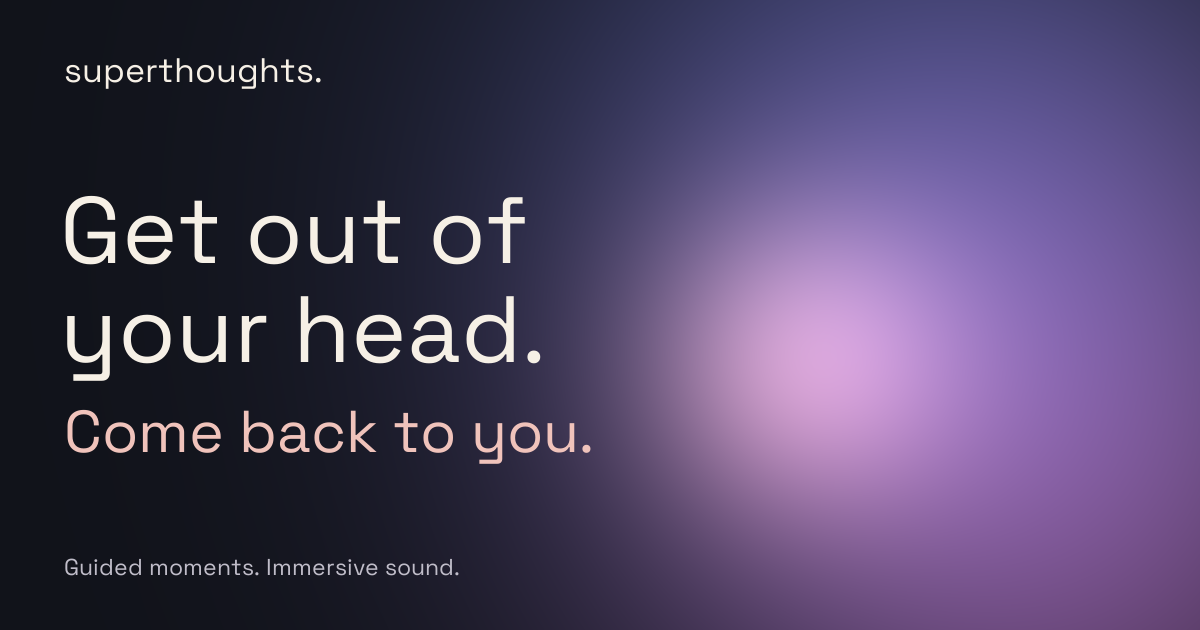
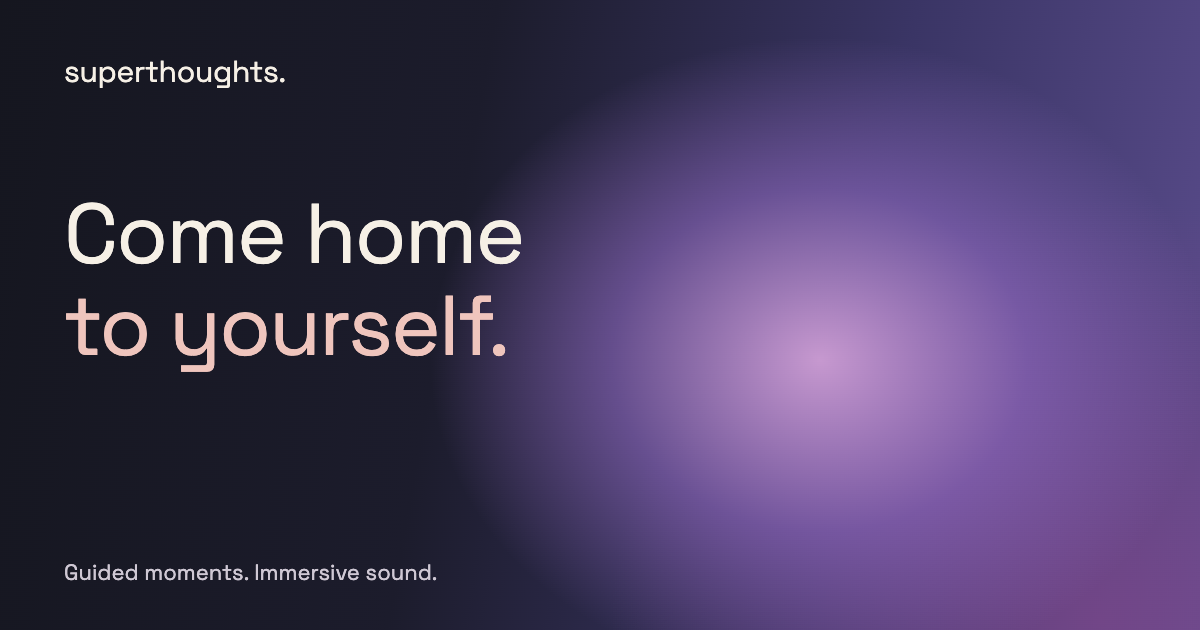
New headline: Come home to yourself.
Josh chose it over "Get out of your head. Come back to you." It comes from
his top-rated track (The Frequency of Abundance: "A moment to come home to
yourself") and echoes his book Come Home to Your Body. Headline, page
titles, share title and share image updated; new offline shell cache name.

diff --git a/index.html b/index.html
@@ -11,9 +11,9 @@
   <meta name="twitter:image" content="https://superthoughts.com/images/og-listening.png">
   <meta property="og:type" content="website">
   <meta property="og:url" content="https://superthoughts.com/">
-  <meta property="og:title" content="Superthoughts · Get out of your head. Come back to you.">
+  <meta property="og:title" content="Superthoughts · Come home to yourself.">
   <meta property="og:description" content="A quiet place to listen. Explore guided practices and sound from Superthoughts.">
-  <title>Superthoughts · Get out of your head. Come back to you.</title>
+  <title>Superthoughts · Come home to yourself.</title>
   <link rel="manifest" href="pilot.webmanifest">
   <link rel="icon" type="image/svg+xml" href="images/favicon.svg">
   <link rel="stylesheet" href="fonts/fonts.css">
@@ -30,7 +30,7 @@
 
   <main id="main" class="shell">
     <section class="welcome" aria-labelledby="welcome-title">
-      <div class="welcome-copy"><p class="eyebrow"><span class="eyebrow-line"></span> A moment for today</p><h1 id="welcome-title"><span class="hero-first-line">Get out of your head.</span><em>Come back to you.</em></h1><p>Whatever this moment holds, there is a place to begin. Find a guided moment, or disappear into sound.</p><p id="welcome-back" class="welcome-back" hidden>Welcome back. Your listening space is here whenever you need it.</p><button id="daily-play" class="daily-invitation" type="button"><span class="daily-play-mark" aria-hidden="true"><svg viewBox="0 0 24 24" width="16" height="16" fill="currentColor"><path d="M9 6.5 17 12l-8 5.5z"/></svg></span><span>Play today’s session</span></button><p id="daily-meta" class="quiet">A gentle place to start.</p></div>
+      <div class="welcome-copy"><p class="eyebrow"><span class="eyebrow-line"></span> A moment for today</p><h1 id="welcome-title"><span class="hero-first-line">Come home</span><em>to yourself.</em></h1><p>Whatever this moment holds, there is a place to begin. Find a guided moment, or disappear into sound.</p><p id="welcome-back" class="welcome-back" hidden>Welcome back. Your listening space is here whenever you need it.</p><button id="daily-play" class="daily-invitation" type="button"><span class="daily-play-mark" aria-hidden="true"><svg viewBox="0 0 24 24" width="16" height="16" fill="currentColor"><path d="M9 6.5 17 12l-8 5.5z"/></svg></span><span>Play today’s session</span></button><p id="daily-meta" class="quiet">A gentle place to start.</p></div>
       <div class="welcome-art" aria-hidden="true"><canvas id="welcome-canvas"></canvas><span class="art-corner art-corner-top">SUPERTHOUGHTS / A SPACE TO LISTEN</span><span class="art-corner art-corner-bottom">A LITTLE SPACE TO LISTEN</span></div>
     </section>
 

diff --git a/practice.html b/practice.html
@@ -11,7 +11,7 @@
   <meta name="twitter:image" content="https://superthoughts.com/images/og-listening.png">
   <meta property="og:type" content="website">
   <meta property="og:url" content="https://superthoughts.com/">
-  <meta property="og:title" content="Superthoughts · Get out of your head. Come back to you.">
+  <meta property="og:title" content="Superthoughts · Come home to yourself.">
   <meta property="og:description" content="A quiet place to listen. Explore guided practices and sound from Superthoughts.">
   <title>Explore practices · Superthoughts</title>
   <link rel="manifest" href="pilot.webmanifest">
@@ -30,7 +30,7 @@
 
   <main id="main" class="shell">
     <section class="welcome" aria-labelledby="welcome-title">
-      <div class="welcome-copy"><p class="eyebrow"><span class="eyebrow-line"></span> A moment for today</p><h1 id="welcome-title"><span class="hero-first-line">Get out of your head.</span><em>Come back to you.</em></h1><p>Whatever this moment holds, there is a place to begin. Find a guided moment, or disappear into sound.</p><p id="welcome-back" class="welcome-back" hidden>Welcome back. Your listening space is here whenever you need it.</p><button id="daily-play" class="daily-invitation" type="button"><span class="daily-play-mark" aria-hidden="true"><svg viewBox="0 0 24 24" width="16" height="16" fill="currentColor"><path d="M9 6.5 17 12l-8 5.5z"/></svg></span><span>Play today’s session</span></button><p id="daily-meta" class="quiet">A gentle place to start.</p></div>
+      <div class="welcome-copy"><p class="eyebrow"><span class="eyebrow-line"></span> A moment for today</p><h1 id="welcome-title"><span class="hero-first-line">Come home</span><em>to yourself.</em></h1><p>Whatever this moment holds, there is a place to begin. Find a guided moment, or disappear into sound.</p><p id="welcome-back" class="welcome-back" hidden>Welcome back. Your listening space is here whenever you need it.</p><button id="daily-play" class="daily-invitation" type="button"><span class="daily-play-mark" aria-hidden="true"><svg viewBox="0 0 24 24" width="16" height="16" fill="currentColor"><path d="M9 6.5 17 12l-8 5.5z"/></svg></span><span>Play today’s session</span></button><p id="daily-meta" class="quiet">A gentle place to start.</p></div>
       <div class="welcome-art" aria-hidden="true"><canvas id="welcome-canvas"></canvas><span class="art-corner art-corner-top">SUPERTHOUGHTS / A SPACE TO LISTEN</span><span class="art-corner art-corner-bottom">A LITTLE SPACE TO LISTEN</span></div>
     </section>
 

diff --git a/session.html b/session.html
@@ -11,7 +11,7 @@
   <meta name="twitter:image" content="https://superthoughts.com/images/og-listening.png">
   <meta property="og:type" content="website">
   <meta property="og:url" content="https://superthoughts.com/">
-  <meta property="og:title" content="Superthoughts · Get out of your head. Come back to you.">
+  <meta property="og:title" content="Superthoughts · Come home to yourself.">
   <meta property="og:description" content="A quiet place to listen. Explore guided practices and sound from Superthoughts.">
   <title>Listen · Superthoughts</title>
   <link rel="manifest" href="pilot.webmanifest">
@@ -30,7 +30,7 @@
 
   <main id="main" class="shell">
     <section class="welcome" aria-labelledby="welcome-title">
-      <div class="welcome-copy"><p class="eyebrow"><span class="eyebrow-line"></span> A moment for today</p><h1 id="welcome-title"><span class="hero-first-line">Get out of your head.</span><em>Come back to you.</em></h1><p>Whatever this moment holds, there is a place to begin. Find a guided moment, or disappear into sound.</p><p id="welcome-back" class="welcome-back" hidden>Welcome back. Your listening space is here whenever you need it.</p><button id="daily-play" class="daily-invitation" type="button"><span class="daily-play-mark" aria-hidden="true"><svg viewBox="0 0 24 24" width="16" height="16" fill="currentColor"><path d="M9 6.5 17 12l-8 5.5z"/></svg></span><span>Play today’s session</span></button><p id="daily-meta" class="quiet">A gentle place to start.</p></div>
+      <div class="welcome-copy"><p class="eyebrow"><span class="eyebrow-line"></span> A moment for today</p><h1 id="welcome-title"><span class="hero-first-line">Come home</span><em>to yourself.</em></h1><p>Whatever this moment holds, there is a place to begin. Find a guided moment, or disappear into sound.</p><p id="welcome-back" class="welcome-back" hidden>Welcome back. Your listening space is here whenever you need it.</p><button id="daily-play" class="daily-invitation" type="button"><span class="daily-play-mark" aria-hidden="true"><svg viewBox="0 0 24 24" width="16" height="16" fill="currentColor"><path d="M9 6.5 17 12l-8 5.5z"/></svg></span><span>Play today’s session</span></button><p id="daily-meta" class="quiet">A gentle place to start.</p></div>
       <div class="welcome-art" aria-hidden="true"><canvas id="welcome-canvas"></canvas><span class="art-corner art-corner-top">SUPERTHOUGHTS / A SPACE TO LISTEN</span><span class="art-corner art-corner-bottom">A LITTLE SPACE TO LISTEN</span></div>
     </section>
 

diff --git a/pilot-sw.js b/pilot-sw.js
@@ -1,7 +1,7 @@
 /* Optional offline support for the pilot. This worker ignores the rest of the site. */
 'use strict';
 
-const SHELL_CACHE = 'superthoughts-pilot-shell-v21-awake-again-v2';
+const SHELL_CACHE = 'superthoughts-pilot-shell-v22-come-home';
 const SESSION_CACHE = 'superthoughts-pilot-sessions-v1';
 const ROOT = new URL(self.registration.scope);
 const SHELL_FILES = [
